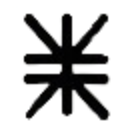
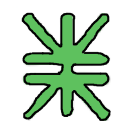
some more style

diff --git a/src/components/StakingWidget.vue b/src/components/StakingWidget.vue
@@ -1,6 +1,6 @@
 <template>
   <div class="staking-widget" :style="backgroundStyle">
-    <h3>{{ staking.name }} Staking</h3>
+    <div style="display: flex;justify-content: center;"><h3>{{ staking.name }} Staking</h3><div class="logs"></div></div>
     <p><strong>Staked Amount:</strong> {{ stakedAmount }} <img :src="getTokenIcon(staking.token)" class="token-icon" :title="staking.token"></p>
     <p><strong>Stored Amount:</strong> {{ storedAmount }} <img :src="getTokenIcon(staking.token)" class="token-icon" :title="staking.token"></p>
     <p><strong>APR:</strong> {{ staking.apr * 100 }}%</p>
@@ -103,10 +103,54 @@ export default {
         if (increment > 0) {
           this.storedAmount += increment;
           localStorage.setItem(this.storedKey, this.storedAmount.toFixed(6));
+          this.showAreaLog(this.staking.token, increment);
         }
         this.updateDisplay(); // Update display every 10 seconds (along with earnings)
       }, 10000); // Update every 10 seconds
     },
+    showAreaLog(token, text) {
+        if (this.$el) {
+          const logsDiv = this.$el.querySelector('.logs');
+          if (logsDiv) {
+            // Create a new text node
+            const textNode = document.createTextNode(text);
+
+            const imgElement = document.createElement('img');
+            imgElement.src = require(`@/assets/tokens/${token}.png`); // Replace with the actual image path
+            imgElement.style.width = '16px'; // Set the image size
+            imgElement.style.height = '16px'; 
+            imgElement.style.marginLeft = '8px';
+
+            // Create a new paragraph element and append the text node to it
+            const newParagraph = document.createElement('p');
+            newParagraph.style.fontSize = '20px';
+            newParagraph.style.margin = '0 20px 8px';
+            newParagraph.style.fontWeight = 'bold';
+            newParagraph.style.color = 'green';
+            newParagraph.style.opacity = '1'; // Start fully visible
+            newParagraph.style.pointerEvents = 'none'; // Ensure it doesn't interfere with user interactions
+            newParagraph.style.transition = 'transform 2s ease-out, opacity 2s ease-out'; // Smooth transition for both transform and opacity
+            newParagraph.style.zIndex = '9999'; // Ensure it appears on top of other elements
+
+            
+            newParagraph.appendChild(textNode);
+            newParagraph.appendChild(imgElement);
+
+            // Append the new paragraph to the .logs div
+            logsDiv.appendChild(newParagraph);
+
+            // Automatically remove the element after the animation ends
+            setTimeout(() => {
+              if (newParagraph && newParagraph.parentElement) {
+                newParagraph.parentElement.removeChild(newParagraph);
+              }
+            }, 1400); // Match with the duration of the animation
+          }
+        } else {
+          console.error('Element is not available');
+          return { x: 0, y: 0 }; // Fallback values
+        }
+      },
   },
   mounted() {
     this.loadAmounts();
@@ -147,7 +191,7 @@ export default {
   margin: 10px auto;
   padding: 20px;
   width: 90%;
-  border: 2px solid #ffa500;
+  border: 4px solid #ffa500;
   border-radius: 15px;
   box-shadow: 0 4px 8px rgba(0, 0, 0, 0.1);
   background-color: #fdfdfd;
@@ -163,7 +207,7 @@ export default {
 }
 
 .staking-widget:hover {
-  border: 6px solid #ffa500;
+  border: 4px solid #5EC15E;
 }
 
 .staking-widget h3 {

diff --git a/src/components/SideMenu.vue b/src/components/SideMenu.vue
@@ -88,7 +88,7 @@ export default {
         const cryptodollarValue = parseFloat(localStorage.getItem(`cryptodollar_value_${token.index}`)) || 0;
         total += tokenAmount * cryptodollarValue;
       });
-      this.totalAssetsValue = total.toFixed(6);
+      this.totalAssetsValue = total.toFixed(2);
     },
     checkStakingUnlocked() {
       // Check if the vault goal is unlocked in localStorage
@@ -162,10 +162,14 @@ export default {
 </script>
 
 <style scoped>
+.totalAssets {
+  font-weight: bold;
+}
 .token-icon {
     width: 16px;
     height: auto;
     transition: transform 0.3s ease;
+    margin-bottom: -2px;
   }
 .logo-container {
   display: flex;

diff --git a/src/views/VaultPage.vue b/src/views/VaultPage.vue
@@ -237,7 +237,7 @@ export default {
   margin: 10px;
   padding: 20px;
   width: 10%;
-  border: 2px solid #ffa500;
+  border: 4px solid #ffa500;
   border-radius: 15px;
   box-shadow: 0 4px 8px rgba(0, 0, 0, 0.1);
   background-color: #fdfdfd;
@@ -245,14 +245,13 @@ export default {
   display: inline-flex;
   flex-direction: column;
   align-items: flex-start;
-  font-size: 1.3em;
   font-weight: bold;
   color: #444;
   text-shadow: 1px 1px 2px rgba(0, 0, 0, 0.7);
 }
 
 .vault-item:hover {
-  border: 6px solid #ffa500;
+  border: 4px solid #5EC15E;
 }
 
 .vault-item h2 {

diff --git a/src/components/MineArea.vue b/src/components/MineArea.vue
@@ -343,7 +343,7 @@
     margin: 10px auto;
     padding: 20px;
     width: 90%;
-    border: 2px solid #ffa500;
+    border: 4px solid #ffa500;
     border-radius: 15px;
     box-shadow: 0 4px 8px rgba(0, 0, 0, 0.1);
     background-color: #fdfdfd;
@@ -359,7 +359,7 @@
   }
 
   .clicker-area:hover {
-    border: 6px solid #ffa500;
+    border: 4px solid #5EC15E;
   }
 
   
